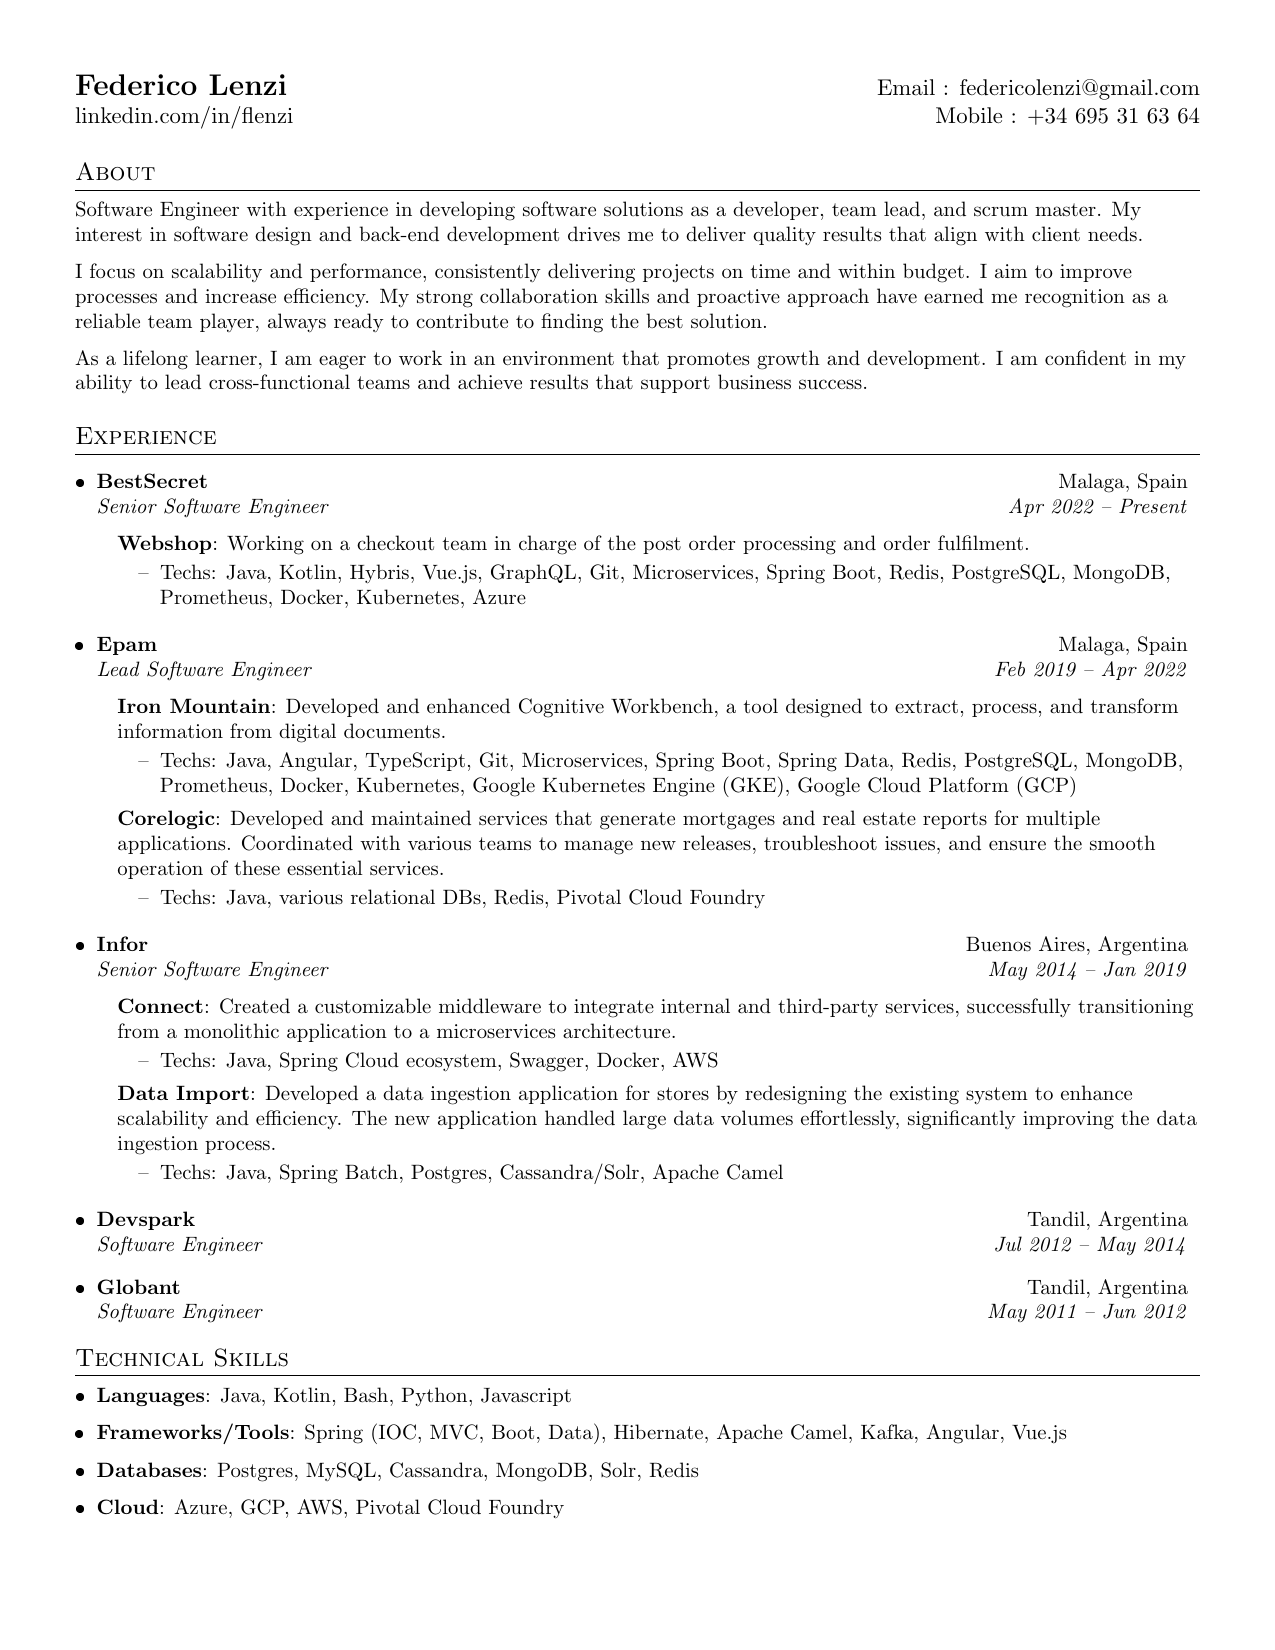
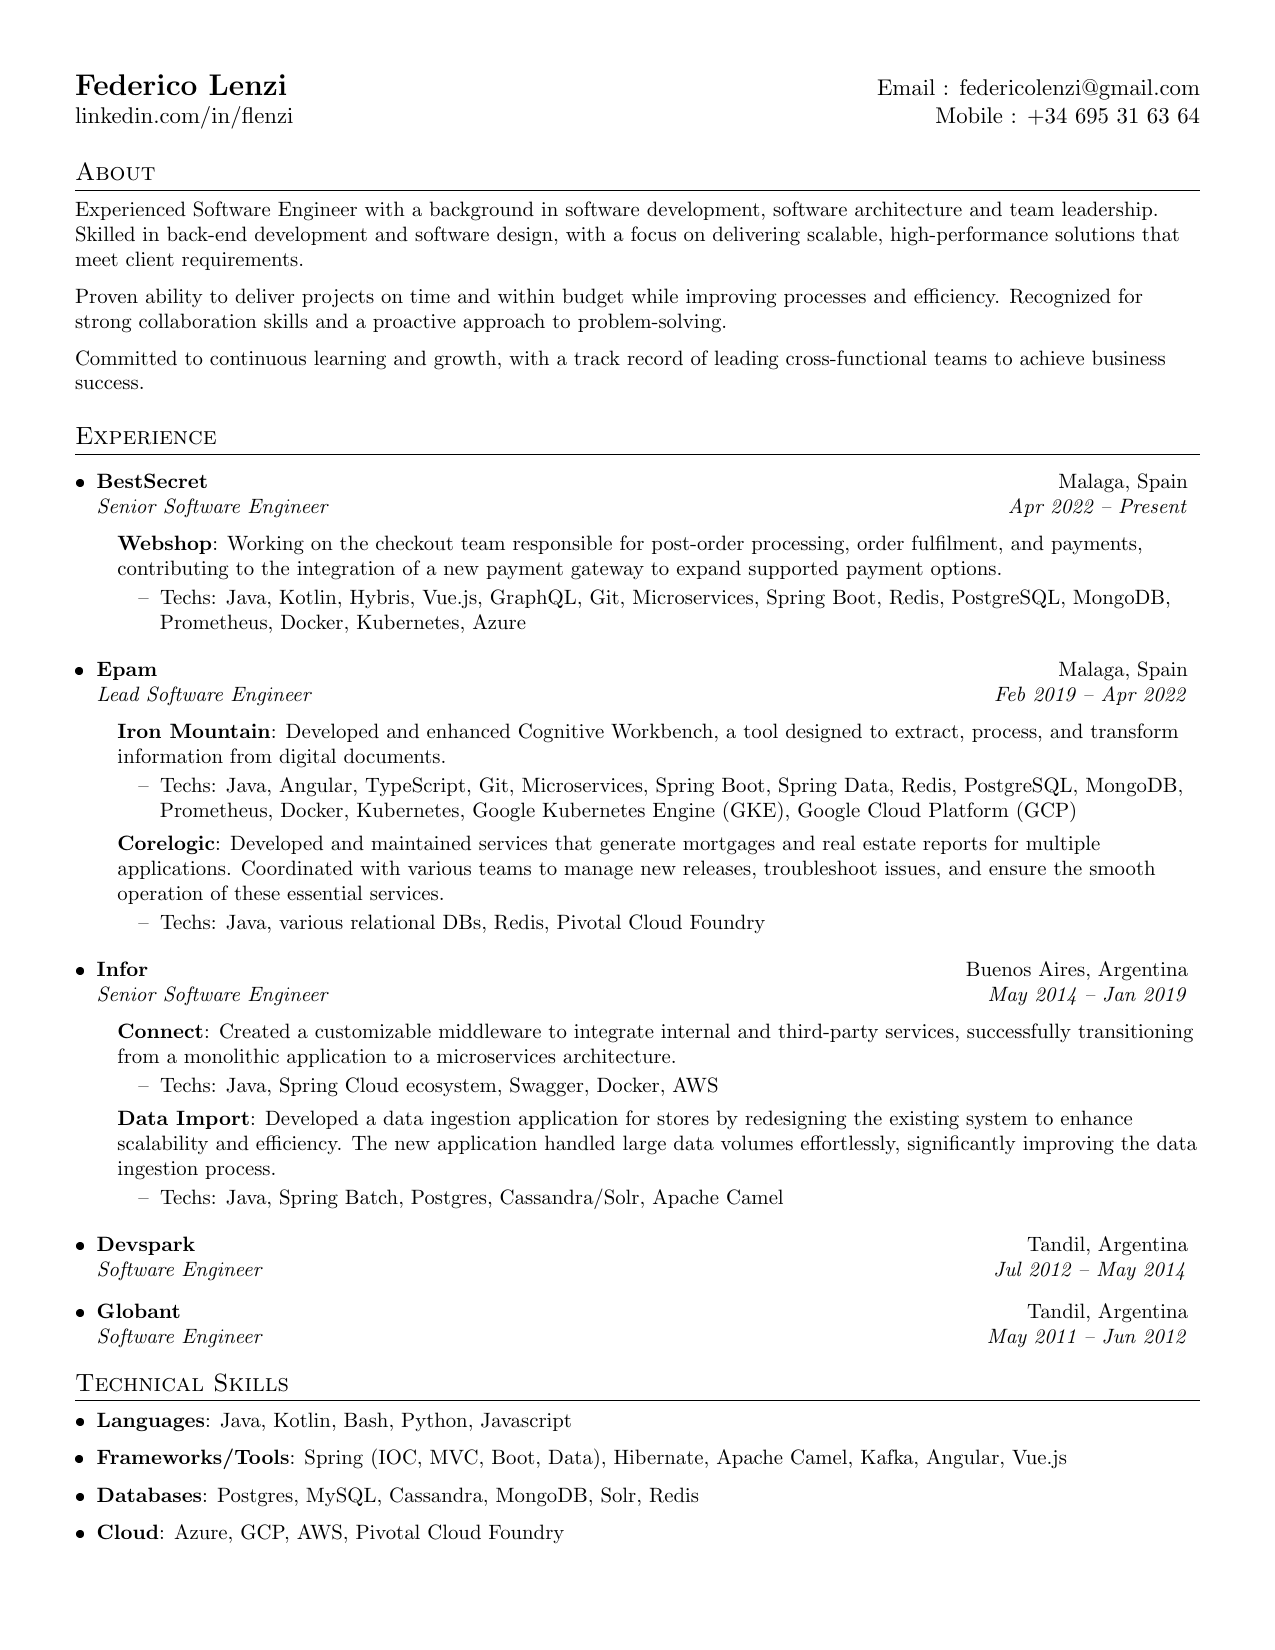
Minor addition on current role

diff --git a/federicolenziCV.tex b/federicolenziCV.tex
@@ -4,6 +4,7 @@
 % Modified by : Federico Lenzi
 % License : MIT
 %------------------------
+% !TEX root = federicolenziCV.tex
 
 \documentclass[letterpaper,11pt]{article}
 
@@ -119,7 +120,7 @@ Committed to continuous learning and growth, with a track record of leading cros
       \resumeItemListStart
         \resumeItem
           {Webshop}
-          {Working on a checkout team in charge of the post order processing and order fulfilment.}
+          {Working on the checkout team responsible for post-order processing, order fulfilment, and payments, contributing to the integration of a new payment gateway to expand supported payment options.}
            \resumeItemDescpritionStart
              \item Techs: Java, Kotlin, Hybris, Vue.js, GraphQL, Git, Microservices, Spring Boot, Redis, PostgreSQL, MongoDB, Prometheus, Docker, Kubernetes, Azure
            \resumeItemDescpritionEnd
